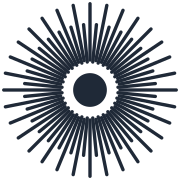
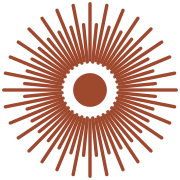
kabbo: ochre brand — flower tinted + contour KABBO wordmark
Switch the Kabbo identity to a single-hue ochre (#9E482E, haematite
pigment) across the app. Replace the plain Inter 'Kabbo' text with a new
hand-drawn SVG wordmark: all-caps KABBO in twin parallel contours,
borrowed from San rock-art outline drawing convention.

- Add --brand-ochre token (light + dark) to src/index.css, exposed as
  brand.ochre in Tailwind.
- KabboLogo flower default colour: text-primary → text-brand-ochre.
- New KabboWordmark component using a layered outer/inner stroke trick
  so the contour tracks light/dark mode via var(--background).
- Wire the wordmark into AppHeader, About, Auth, and ResetPassword.
- Regenerate public/ favicon + OG image in ochre; the OG card now uses
  the contour wordmark instead of the old serif 'Kabbo'.

diff --git a/kabbo/src/components/KabboWordmark.tsx b/kabbo/src/components/KabboWordmark.tsx
@@ -1,0 +1,85 @@
+import { cn } from '@/lib/utils';
+
+interface KabboWordmarkProps {
+  className?: string;
+  /** Rendered height in pixels. Width scales to preserve aspect ratio. */
+  height?: number;
+}
+
+/**
+ * Kabbo wordmark — "KABBO" in twin parallel contours (Proposal E).
+ *
+ * Geometric all-caps armature (rational bowls on B, true-circle O) drawn
+ * with a layered-stroke trick: an outer ochre stroke defines the letter
+ * silhouette, then an inner background-coloured stroke carves out the
+ * interior, leaving a ~3-unit contour line on each side. The look borrows
+ * from ǀxam / San rock-art contour drawing, where eland and therianthrope
+ * figures were outlined rather than filled.
+ *
+ * The inner stroke uses `var(--background)` so it tracks light/dark mode
+ * automatically. The outer stroke uses `currentColor`, so the wordmark
+ * takes its colour from the parent text colour (default: brand ochre).
+ */
+export function KabboWordmark({ className, height = 30 }: KabboWordmarkProps) {
+  const viewBox = '0 0 410 130';
+  // Preserve aspect ratio: native is 410 × 130.
+  const width = Math.round((height * 410) / 130);
+
+  // Shared path data for both the outer silhouette and the inner carve.
+  const paths = (
+    <>
+      {/* K */}
+      <path d="M 15 12 L 15 118" />
+      <path d="M 15 65 L 60 12" />
+      <path d="M 15 65 L 62 118" />
+      {/* A */}
+      <path d="M 110 12 L 70 118" />
+      <path d="M 110 12 L 150 118" />
+      <path d="M 85 75 L 135 75" />
+      {/* B */}
+      <path d="M 180 12 L 180 118" />
+      <path d="M 180 12 H 204 A 24 26.5 0 0 1 204 65 H 180" />
+      <path d="M 180 65 H 204 A 24 26.5 0 0 1 204 118 H 180" />
+      {/* B */}
+      <path d="M 250 12 L 250 118" />
+      <path d="M 250 12 H 274 A 24 26.5 0 0 1 274 65 H 250" />
+      <path d="M 250 65 H 274 A 24 26.5 0 0 1 274 118 H 250" />
+      {/* O */}
+      <circle cx="345" cy="65" r="45" />
+    </>
+  );
+
+  return (
+    <svg
+      width={width}
+      height={height}
+      viewBox={viewBox}
+      fill="none"
+      xmlns="http://www.w3.org/2000/svg"
+      role="img"
+      aria-label="Kabbo"
+      className={cn('text-brand-ochre', className)}
+    >
+      {/* Outer silhouette — currentColor (ochre by default) */}
+      <g
+        stroke="currentColor"
+        strokeWidth={20}
+        strokeLinecap="butt"
+        strokeLinejoin="miter"
+        fill="none"
+      >
+        {paths}
+      </g>
+      {/* Inner carve — background colour, carves out the interior */}
+      <g
+        stroke="hsl(var(--background))"
+        strokeWidth={14}
+        strokeLinecap="butt"
+        strokeLinejoin="miter"
+        fill="none"
+      >
+        {paths}
+      </g>
+    </svg>
+  );
+}

diff --git a/kabbo/src/components/AppHeader.tsx b/kabbo/src/components/AppHeader.tsx
@@ -13,6 +13,7 @@ import { Badge } from '@/components/ui/badge';
 import { LogOut, Settings, Moon, Sun, Info, Users } from 'lucide-react';
 import { UserProfile } from '@/types/publication';
 import { KabboLogo } from './KabboLogo';
+import { KabboWordmark } from './KabboWordmark';
 import { ProfileSettingsModal } from './ProfileSettingsModal';
 import { PaletteSelector } from './PaletteSelector';
 import { useTheme } from 'next-themes';
@@ -46,9 +47,10 @@ export function AppHeader({ title, subtitle, profile, onSignOut, onProfileUpdate
             {/* Logo */}
             <KabboLogo size={28} className="md:w-8 md:h-8 flex-shrink-0" />
 
-            {/* Wordmark — sized to match logo height */}
-            <h1 className="font-display font-semibold text-[28px] md:text-[32px] leading-none tracking-tight">
-              Kabbo
+            {/* Wordmark — contour ochre (Proposal E). Render as h1 via aria. */}
+            <h1 className="leading-none" aria-label="Kabbo">
+              <KabboWordmark height={28} className="md:hidden" />
+              <KabboWordmark height={32} className="hidden md:block" />
             </h1>
 
             {/* Divider — matches logo height, spaced a logo-height away on each side */}

diff --git a/kabbo/src/pages/About.tsx b/kabbo/src/pages/About.tsx
@@ -1,5 +1,6 @@
 import { Link } from 'react-router-dom';
 import { KabboLogo } from '@/components/KabboLogo';
+import { KabboWordmark } from '@/components/KabboWordmark';
 import { Button } from '@/components/ui/button';
 import { ArrowLeft, ExternalLink } from 'lucide-react';
 
@@ -19,12 +20,12 @@ export default function About() {
         <div className="flex items-center gap-4 mb-8">
           <KabboLogo size={56} />
           <div>
-            <h1 className="font-display text-4xl font-bold tracking-tight text-foreground">
-              Kabbo
+            <h1 className="leading-none" aria-label="Kabbo">
+              <KabboWordmark height={44} />
             </h1>
-          <p className="text-muted-foreground text-sm mt-1">
-            Your publication pipeline, simplified.
-          </p>
+            <p className="text-muted-foreground text-sm mt-2">
+              Your publication pipeline, simplified.
+            </p>
           </div>
         </div>
 

diff --git a/kabbo/src/pages/ResetPassword.tsx b/kabbo/src/pages/ResetPassword.tsx
@@ -7,6 +7,7 @@ import { Label } from '@/components/ui/label';
 import { toast } from 'sonner';
 import { Loader2, Eye, EyeOff } from 'lucide-react';
 import { KabboLogo } from '@/components/KabboLogo';
+import { KabboWordmark } from '@/components/KabboWordmark';
 
 export default function ResetPassword() {
   const navigate = useNavigate();
@@ -66,8 +67,8 @@ export default function ResetPassword() {
         <div className="text-center mb-8">
           <div className="flex items-center justify-center gap-3 mb-4">
             <KabboLogo size={40} />
-            <h1 className="font-display text-3xl font-semibold tracking-tight text-foreground">
-              Kabbo
+            <h1 className="leading-none" aria-label="Kabbo">
+              <KabboWordmark height={34} />
             </h1>
           </div>
           <p className="text-muted-foreground">

diff --git a/kabbo/src/pages/Auth.tsx b/kabbo/src/pages/Auth.tsx
@@ -8,6 +8,7 @@ import { Separator } from '@/components/ui/separator';
 import { toast } from 'sonner';
 import { Loader2, Eye, EyeOff } from 'lucide-react';
 import { KabboLogo } from '@/components/KabboLogo';
+import { KabboWordmark } from '@/components/KabboWordmark';
 
 export default function Auth() {
   const navigate = useNavigate();
@@ -154,8 +155,8 @@ export default function Auth() {
         <div className="text-center mb-8">
           <div className="flex items-center justify-center gap-3 mb-4">
             <KabboLogo size={40} />
-            <h1 className="font-display text-3xl font-semibold tracking-tight text-foreground">
-              Kabbo
+            <h1 className="leading-none" aria-label="Kabbo">
+              <KabboWordmark height={34} />
             </h1>
           </div>
           <p className="text-muted-foreground">

diff --git a/kabbo/src/index.css b/kabbo/src/index.css
@@ -16,6 +16,9 @@
     --warm-coral: 12 65% 58%;
     --soft-amber: 38 60% 55%;
     --cream: 40 25% 96%;
+
+    /* Brand ochre — haematite pigment, San rock art */
+    --brand-ochre: 14 55% 40%;
     
     /* Semantic tokens */
     --background: 40 20% 98%;
@@ -88,6 +91,9 @@
   .dark {
     --background: 220 18% 8%;
     --foreground: 40 15% 95%;
+
+    /* Brand ochre — slightly brighter in dark mode for contrast */
+    --brand-ochre: 14 65% 58%;
 
     --card: 220 16% 11%;
     --card-foreground: 40 15% 95%;

diff --git a/kabbo/src/components/KabboLogo.tsx b/kabbo/src/components/KabboLogo.tsx
@@ -50,7 +50,7 @@ export function KabboLogo({ className, size = 40 }: KabboLogoProps) {
       viewBox="0 0 48 48"
       fill="none"
       xmlns="http://www.w3.org/2000/svg"
-      className={cn('text-primary', className)}
+      className={cn('text-brand-ochre', className)}
     >
       {/* Long filament petals — outer ring */}
       {longPetals.map((p) => (

diff --git a/kabbo/tailwind.config.ts b/kabbo/tailwind.config.ts
@@ -61,6 +61,10 @@ export default {
           border: "hsl(var(--sidebar-border))",
           ring: "hsl(var(--sidebar-ring))",
         },
+        // Brand
+        brand: {
+          ochre: "hsl(var(--brand-ochre))",
+        },
         // Scandinavian palette
         "slate-deep": "hsl(var(--slate-deep))",
         "slate-mid": "hsl(var(--slate-mid))",
